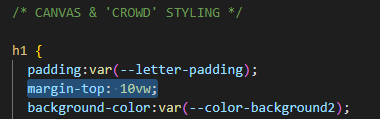
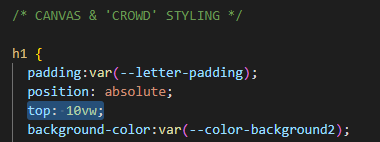
tweak

diff --git a/opdracht1/styles/style.css b/opdracht1/styles/style.css
@@ -80,7 +80,8 @@ body {
 
 h1 {
 	padding:var(--letter-padding);
-	margin-top: 10vw;
+	position: absolute;
+	top: 10vw;
 	background-color:var(--color-background2);		
 	width: 5em;	
 	aspect-ratio: 1/1;
